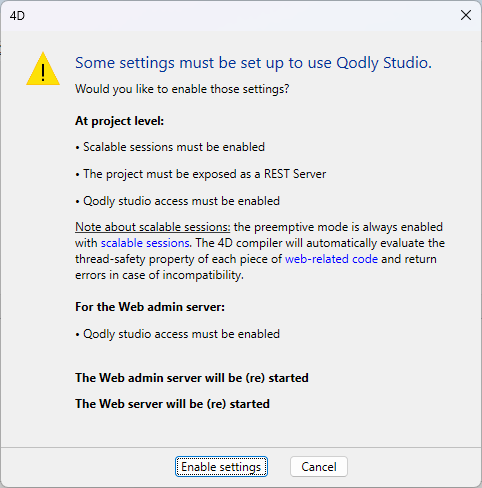
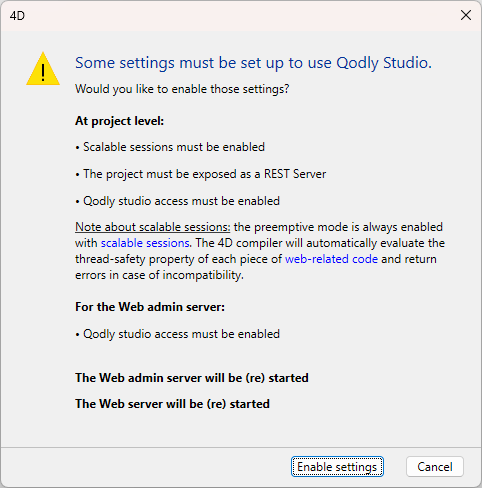
fix pict

diff --git a/docusaurus.config.js b/docusaurus.config.js
@@ -5,7 +5,8 @@ const lightCodeTheme = require('prism-react-renderer/themes/github');
 const darkCodeTheme = require('prism-react-renderer/themes/dracula');
 
 const ghUrl = `${process.env.GITHUB_SERVER_URL || 'https://github.com'}/${process.env.GITHUB_REPOSITORY || 'qodly/docs'}`;
-const isProduction = process.env.GITHUB_REPOSITORY_OWNER === 'qodly';
+//const isProduction = process.env.GITHUB_REPOSITORY_OWNER === 'qodly';
+const isProduction = process.env.GITHUB_REPOSITORY_OWNER === '4d';
 
 /** @type {import('@docusaurus/types').Config} */
 const config = {
@@ -13,6 +14,7 @@ const config = {
   tagline: 'Easily build powerful, low-code web interfaces to elevate your 4D applications.',
   url: isProduction ? "https://developer.qodly.com" : "https://docqodly.github.io",
   baseUrl: isProduction ? "/qodly/" : "/docQodlyPro/",
+  // baseUrl: "/qodly/",
   onBrokenLinks: 'warn',
   onBrokenMarkdownLinks: 'warn',
   favicon: 'img/favicon.svg',
